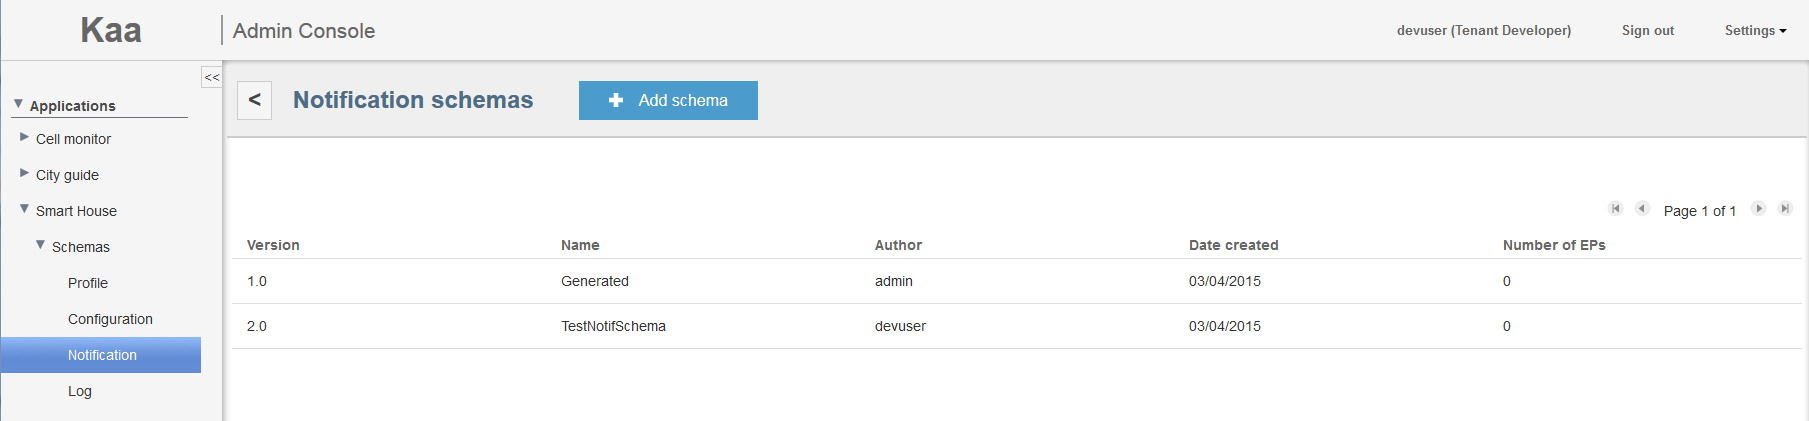
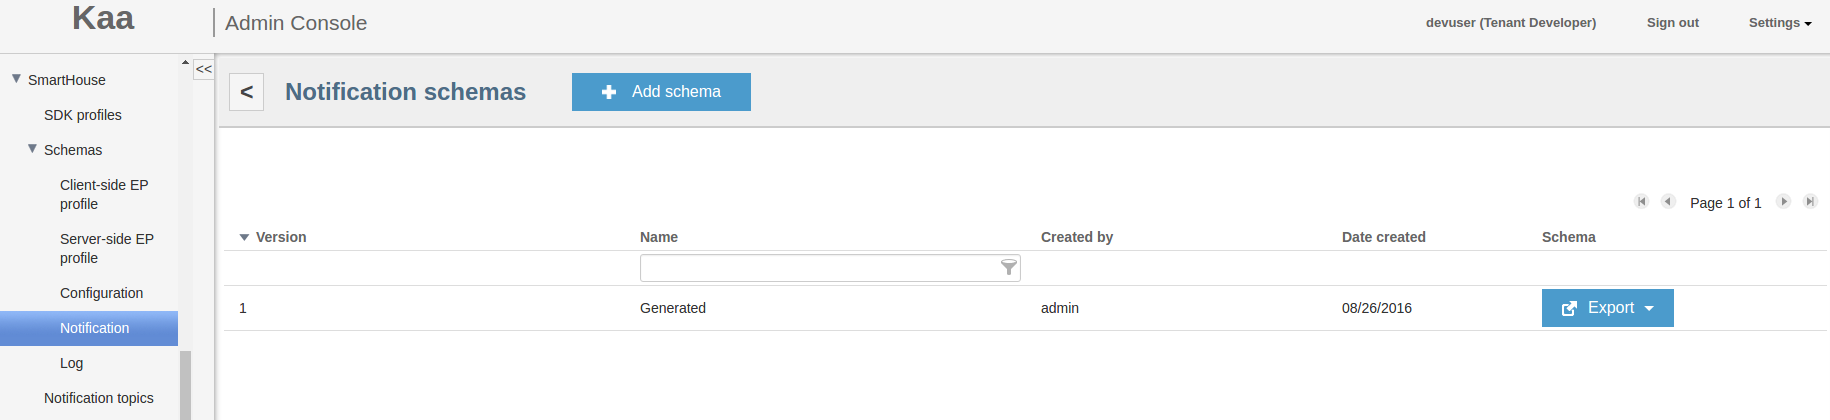
CTL update of notifications

diff --git a/Programming-guide/Key-platform-features/Notifications/index.md b/Programming-guide/Key-platform-features/Notifications/index.md
@@ -52,24 +52,38 @@ The default notification schema installed for Kaa applications is empty. For the
 }
 ```
 
-You can configure your own notification schema via [REST API]({{root_url}}Programming-guide/Server-REST-APIs/#!/Notifications/saveNotificationSchema) call or use Administration UI as shown below. 
 
+For creating your own notification schema via REST API first of all you need to [create new CT schema]({{root_url}}Programming-guide/Server-REST-APIs/#!/Common_Type_Library/saveCTLSchemaWithAppToken)
+after that [create notification schema]({{root_url}}Programming-guide/Server-REST-APIs/#!/Notifications/saveNotificationSchema) which contains a reference to the created before CT or use Administration UI as shown below.
 
 The list of notification schemas created by a tenant developer for the application is shown in the **Notification schemas** window.
 
 ![Add Notification Schema 1](images/add_notification_schema_1.png)
 
+To export the notification schema, click **Export** in the last column of desired schema row and select export method from drop-down. 
+See [CT schema export support]({{root_url}}Programming-guide/Key-platform-features/Common-Type-Library/#ct-schema-export-support) for available export methods details.
+
 As a tenant developer, you can create new notification schemas for the application as follows:
 
 1. In the **Notification schemas** window for the application, click **Add schema**.
-2. In the **Add notification schema** window, create a notification schema either by using the [schema form]({{root_url}}Administration-guide/Tenants-and-applications-management/#schema-form) or by uploading a schema in the [Avro](http://avro.apache.org/docs/current/spec.html) format from a file.
+2. In the **Add notification schema** window enter the name of the schema.
+3. Then create a schema using one of the two options:
 
-![Add Notification Schema 2](images/add_notification_schema_2.png)
-3. Click **Add** to save the schema.
+    1. Using the existing CT by clicking **Select existing type** and selecting exiting CT version from FQN and version drop-downs.
+    
+        ![Add Notification Schema 2](images/add_notification_schema_2.png)
+    
+    2. Create new CT by clicking **Create new type**. In this case you will be redirected to **Add new type** window. Here you can create a schema either by using the 
+    schema form or by uploading a schema in the [Avro](http://avro.apache.org/docs/current/spec.html) format from a file.
+    
+        ![Add Notification Schema 2](images/add_notification_schema_3.png)
+
+4. Click **Add** at the top of the window to save the schema.
 
 If you want to review the added Avro schema, open the corresponding **Notification schema** window by clicking the schema in the **Notification schemas** window.
 
-![Add Notification Schema 3](images/add_notification_schema_3.png)
+![Add Notification Schema 3](images/add_notification_schema_4.png)
+   
 
 #### Notification topics
 
